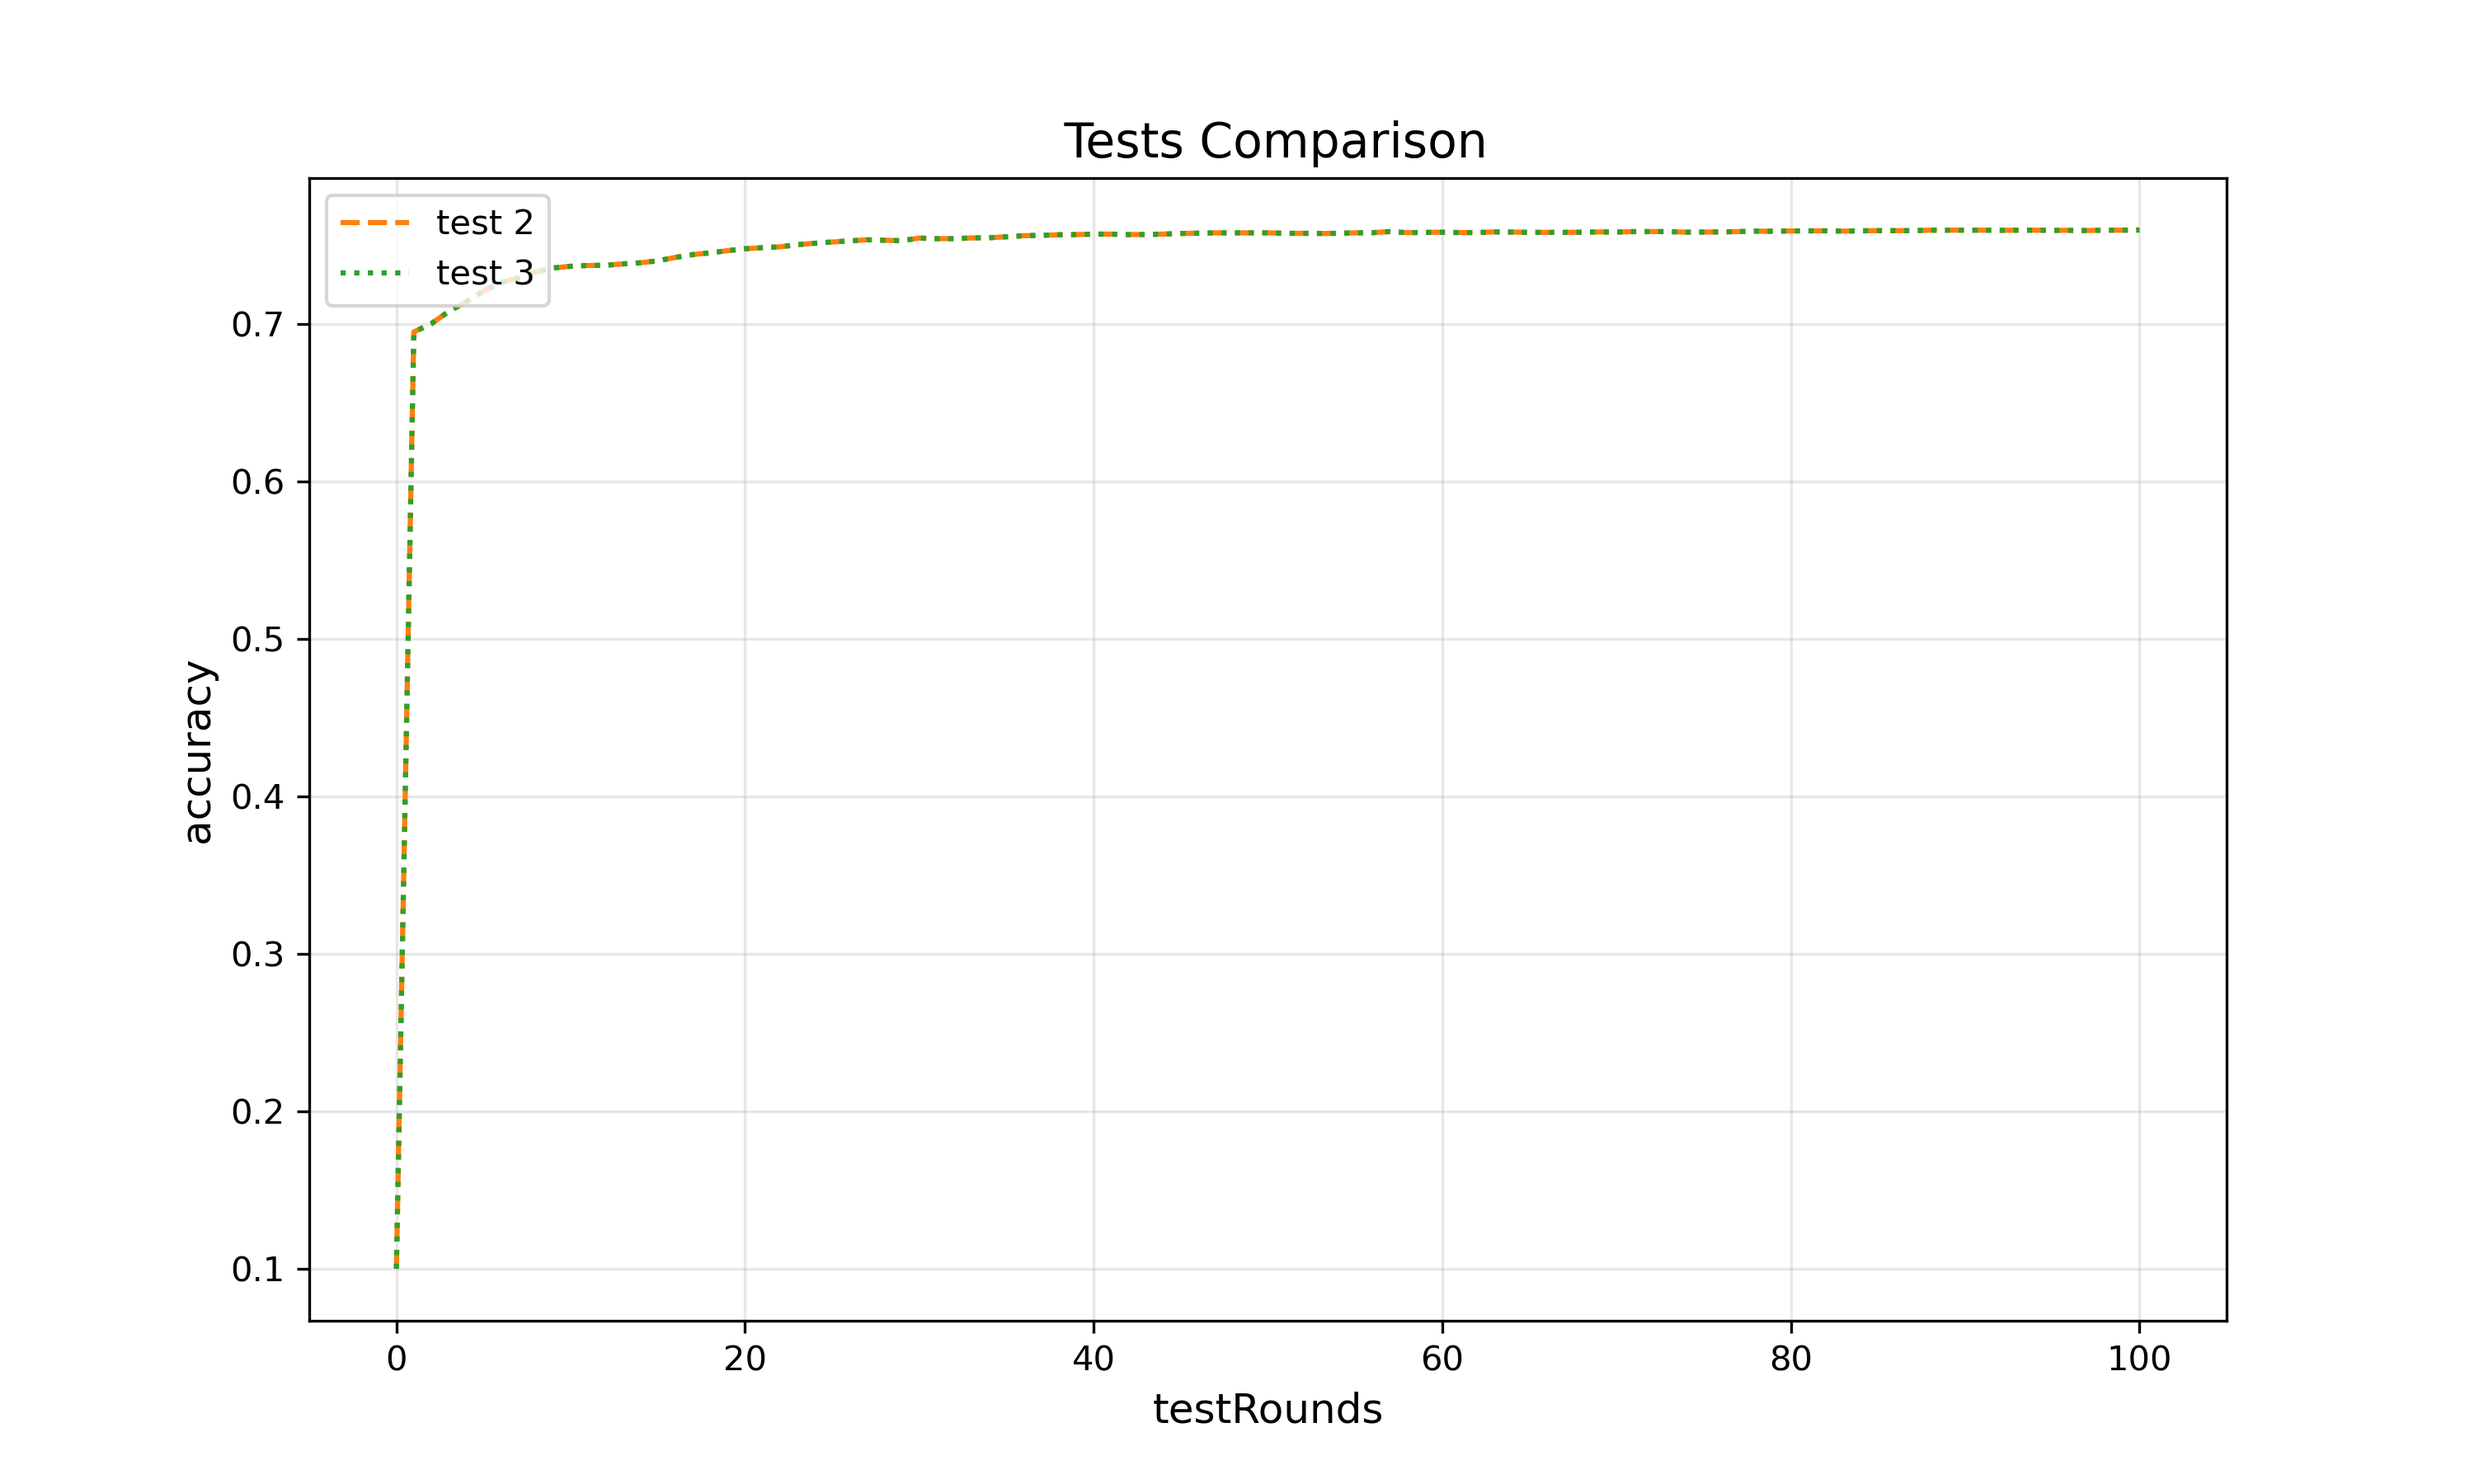
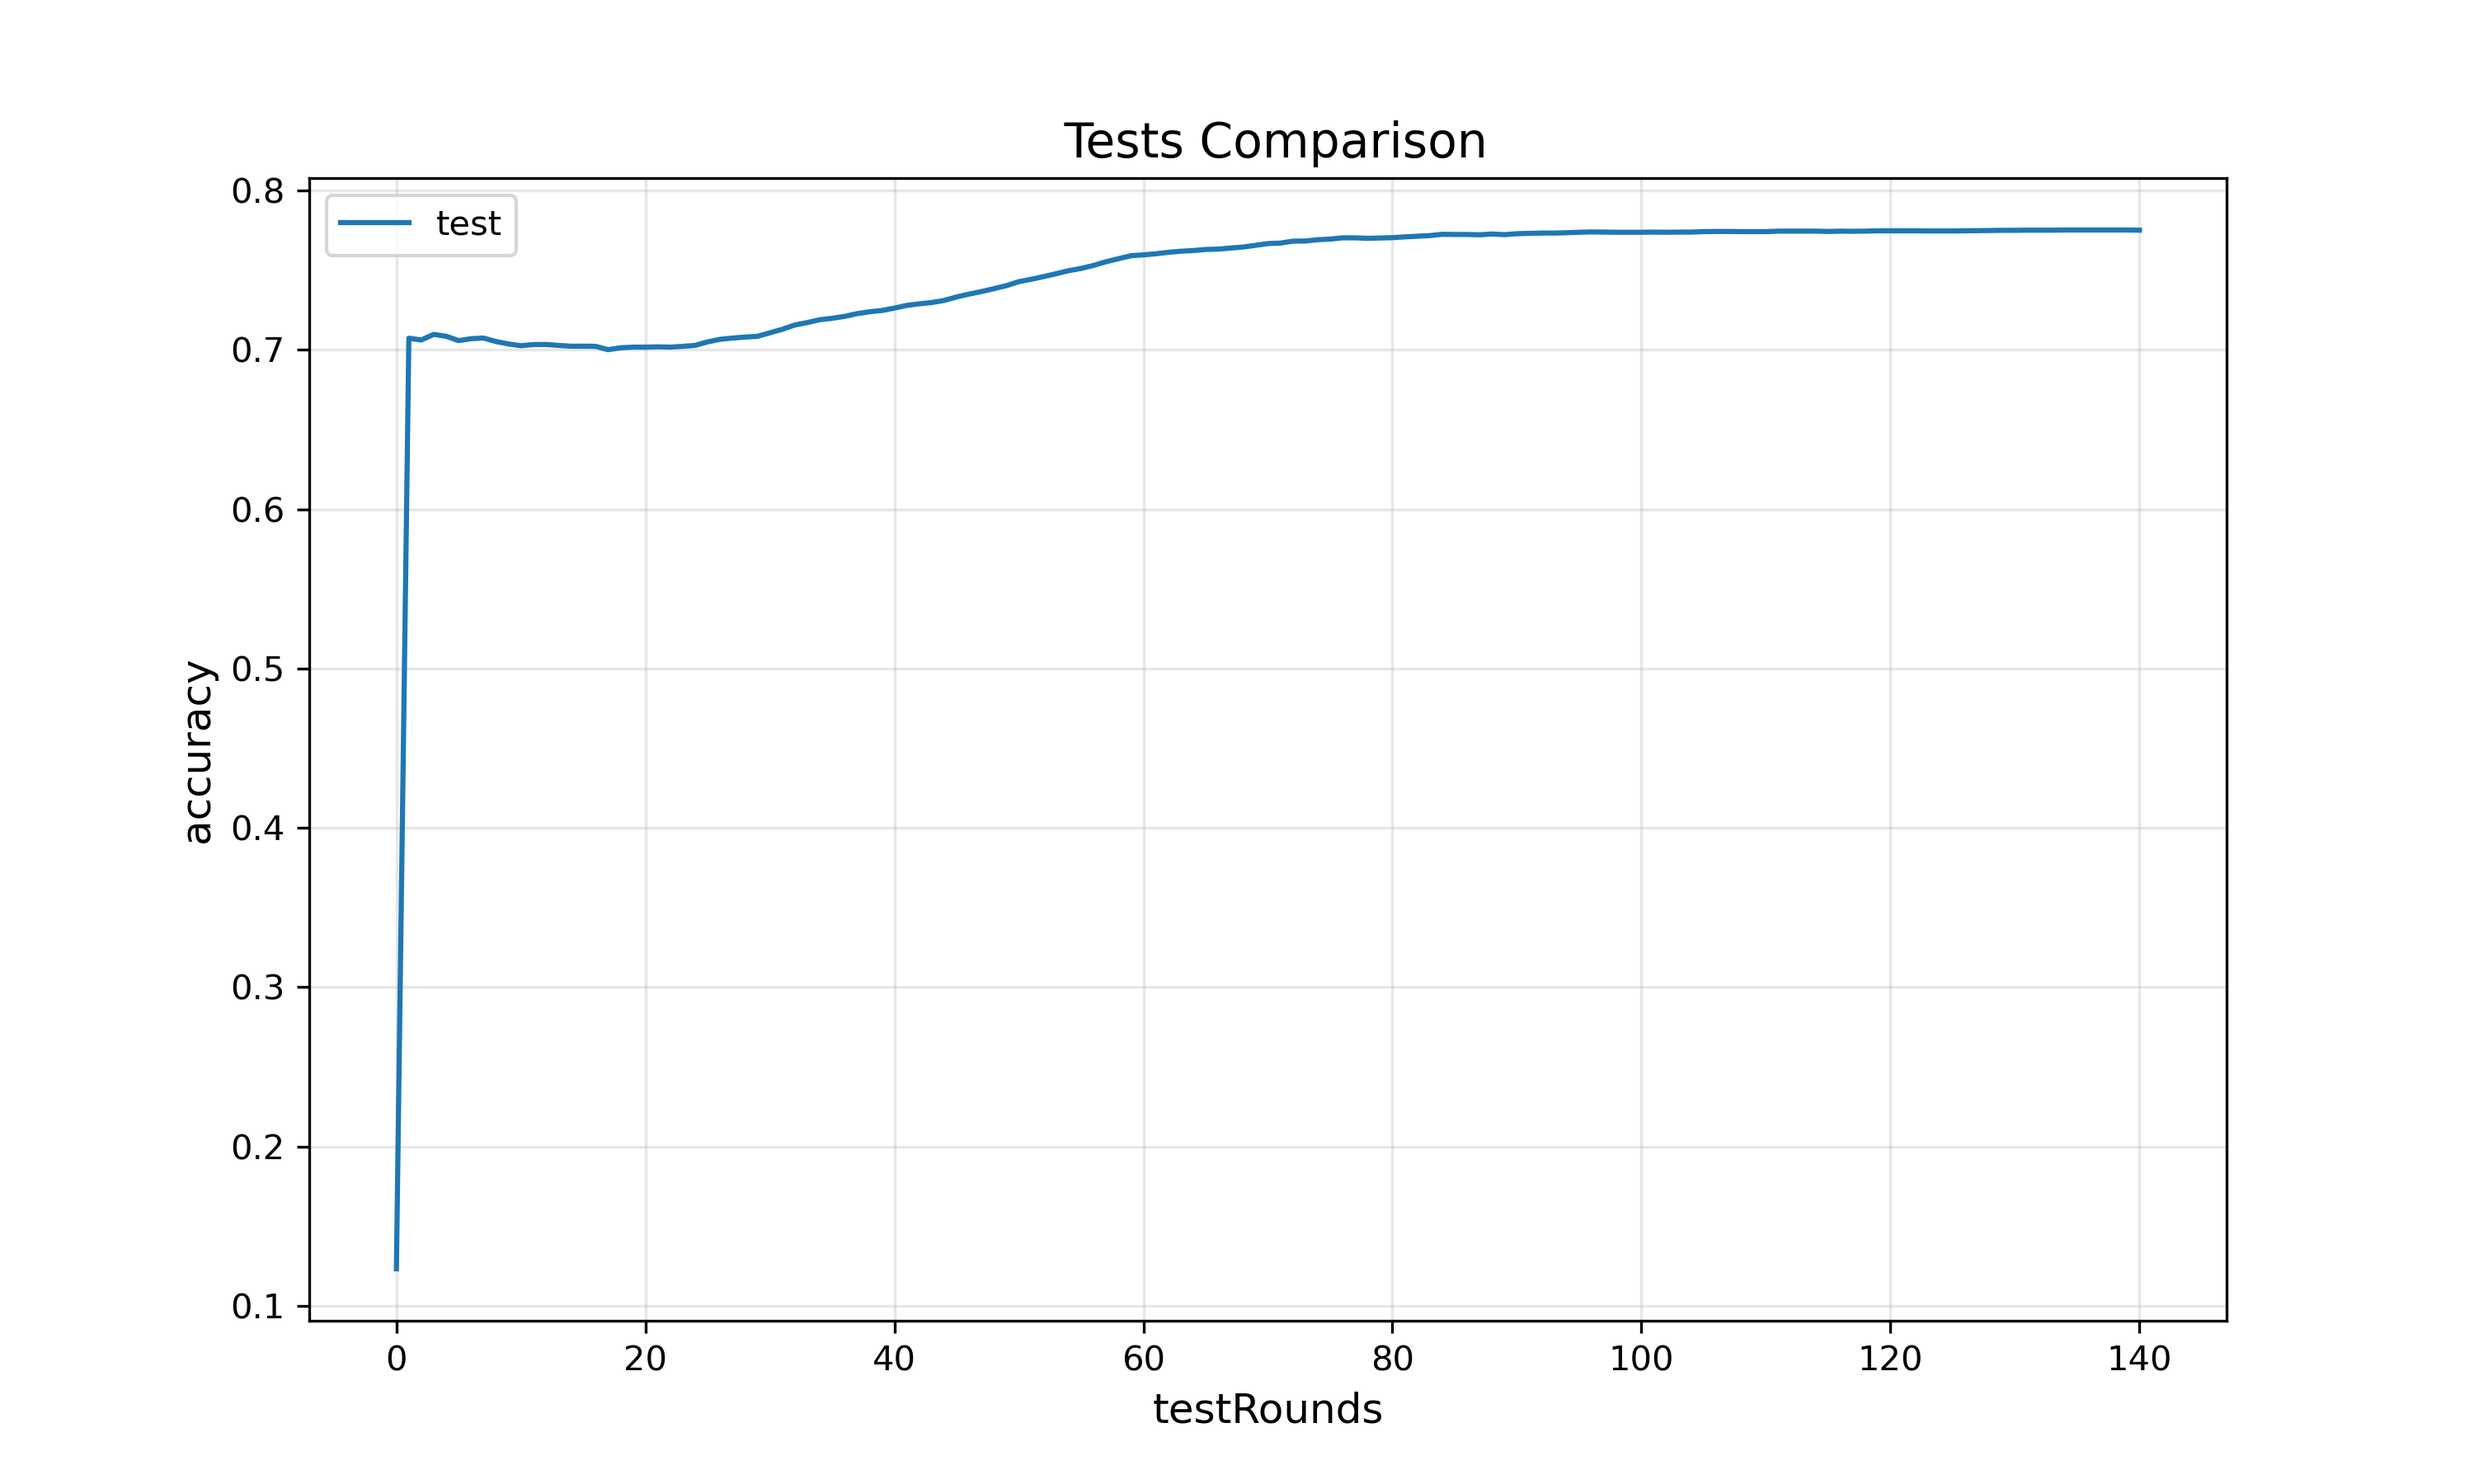
2025.3.27 first

diff --git a/fedavg/utils.py b/fedavg/utils.py
@@ -44,10 +44,20 @@ def knapsack_01(weights, values, capacity):
 #获取每个客户端的耗时
 def getTime(config):
     np.random.seed(config['random_seed']+10)
-    times = [np.random.uniform(10, 100) for _ in range(config['num_clients'])]
+    timeStart=np.random.uniform(1,10)
+    times = [np.random.uniform(timeStart ,timeStart*config['timesMax']) for _ in range(config['num_clients'])]
     timeMax=np.max(times)
     for i in range(len(times)):
         times[i] = times[i]/timeMax
+    return times
+def getFinalTime(config,times,curr_round):
+    np.random.seed(config['random_seed']+10+curr_round)
+    timeStart=np.random.uniform(1,10)
+    times_ = [np.random.uniform(timeStart, timeStart * config['timesMax']) for _ in range(config['num_clients'])]
+    timeMax = np.max(times_)
+    for i in range(len(times)):
+        times_[i] = times_[i] / timeMax
+        times[i]=(times[i]+times_[i])/2
     return times
 #获取每个客户端的消费和总的消费预算
 def getcost(config):
@@ -74,16 +84,17 @@ def getClientsForTrain(scores,times,costs,costThreshold,config):
         for j in range(0,i+1):
             costsCur[indices[j]]=costThresholdCur+1
         #价值和时间的统筹估算
-
         valuesum,idChoosedCur=knapsack_01(costsCur,scores,costThresholdCur)
         timeSum = times[indices[i]]*len(idChoosedCur)
-        scoresFinalCur=valuesum+scoreCur-timeSum
+        scoresFinalCur=(config['a']*(valuesum+scoreCur))-(config['b']*timeSum)
         scoresFinal.append(scoresFinalCur)
+        idChoosedCur.append(i)
         idChoosed.append(idChoosedCur)
     scoresFinal=np.array(scoresFinal)
-    i = (np.argsort(-scoresFinal)[:1])[0]  # 输出得分最大的是哪一轮
-    idChoosed.append(indices[i])
-    return idChoosed[i]
+    i = np.argsort(-scoresFinal)[:config["num_clients"]] # 输出得分最大的是哪一轮
+    for j in range(10):
+        print(i[j*10], scoresFinal[i[j*10]])
+    return idChoosed[i[0]]
 
 
 

diff --git a/fedavg/main.py b/fedavg/main.py
@@ -8,7 +8,8 @@ from torch.utils.data import DataLoader, Subset,TensorDataset
 from models import SimpleCNN,EnhancedCNN
 from fed import client,server
 from getData import getData, getNoIIDData
-from utils import Evaluate1,getTime,getClientsForTrain,getcost
+from utils import Evaluate1, getTime, getClientsForTrain, getcost, getFinalTime
+
 with open("config.json") as f:
     config = json.load(f)
 f.close()
@@ -142,9 +143,10 @@ if __name__ == "__main__":
     # clients与server之间通信
     w_attenaution=np.array([1 for i in range(config["num_clients"])],dtype=np.float32)#定义每个客户端的打分的衰减率
     x=0#定期保存训练的参数和acc
-    times = getTime(config)
+    timesFixed = getTime(config)
     costs, costthreshold = getcost(config)
     for curr_round in range(lastRound+1, lastRound+rounds + 1):
+        timesFinal=getFinalTime(config,timesFixed[:],curr_round)
         scores=None
         local_loss = []
         client_params = {}
@@ -165,7 +167,7 @@ if __name__ == "__main__":
             accuracy = test_accuracy()
             loss[k], acc[k] = accuracy.test_accuracy(net, local_parameters[k], data.getTestData(), dev, loss_func)
         scores = Evaluate1(acc[:], loss[:], config["w"],w_attenaution[:])
-        indices=getClientsForTrain(scores[:],times[:],costs[:],costthreshold,config)
+        indices=getClientsForTrain(scores[:],timesFinal[:],costs[:],costthreshold,config)
         print("第%d轮次通信中选中的客户端为:"%(curr_round),indices)
         # print("他们的得分如下：")
         # for ind in indices:

diff --git a/fedavg/draw.py b/fedavg/draw.py
@@ -2,22 +2,25 @@ import pandas as pd
 import matplotlib.pyplot as plt
 
 # 读取数据
+data=pd.read_csv('./test_accuracy.csv', header=None).squeeze()
 # data1 = pd.read_csv('./Zero.csv', header=None).squeeze()
 data2 = pd.read_csv('C:/Users/JucyNof/Desktop/result/test_accuracy_lr=1e-5_clentepoch=10.csv', header=None).squeeze()
 data3 = pd.read_csv('C:/Users/JucyNof/Desktop/result/test_accuracy_lr=1e-5_clentepoch=10.csv', header=None).squeeze()
 
 # 统一横坐标
-max_length = max(len(data2), len(data3))
+max_length = max(len(data),len(data2), len(data3))
 x = range(max_length)
+data=data.reindex(x, fill_value=None)
 # data1 = data1.reindex(x, fill_value=None)
 data2 = data2.reindex(x, fill_value=None)
 data3 = data3.reindex(x, fill_value=None)
 
 # 绘图
 plt.figure(figsize=(10, 6))
+plt.plot(x, data, label='test', color='#1f77b4', linestyle='-', linewidth=1.5)
 # plt.plot(x, data1, label='test 1', color='#1f77b4', linestyle='-', linewidth=1.5)
-plt.plot(x, data2, label='test 2', color='#ff7f0e', linestyle='--', linewidth=1.5)
-plt.plot(x, data3, label='test 3', color='#2ca02c', linestyle=':', linewidth=1.5)
+# plt.plot(x, data2, label='test 2', color='#ff7f0e', linestyle='--', linewidth=1.5)
+# plt.plot(x, data3, label='test 3', color='#2ca02c', linestyle=':', linewidth=1.5)
 
 plt.xlabel('testRounds', fontsize=12)
 plt.ylabel('accuracy', fontsize=12)

diff --git a/fedavg/getData.py b/fedavg/getData.py
@@ -62,10 +62,8 @@ class getNoIIDData:
         # 获取数据标签，并统计类别数量
         targets = np.array(self.train_dataset.targets)
         num_classes = np.unique(targets).size
-
         # 初始化每个客户端的数据索引字典
         client_indices = {i: [] for i in range(config["num_clients"])}
-
         # 针对每个类别进行数据分配
         for cls in range(num_classes):
             # 获取该类别所有样本的索引，并打乱顺序
